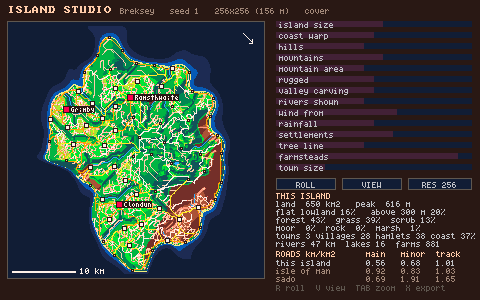
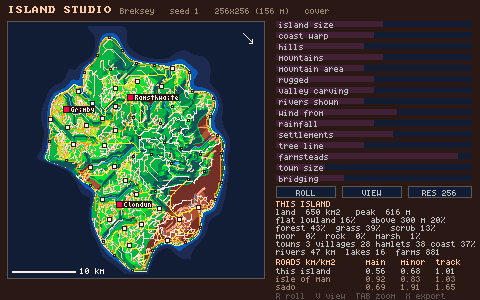
islandstudio: bridging slider (roads may bridge lakes and sea inlets)
Water costs len*(1.2+30(1-k)^2)*(1+DL/400) for links and the expressway (never the coast ring or
farm tracks); max span 150+1850k m. Each water stretch on a route must be a real crossing
(<= max span and <= 2.5x the water's width) or the route is redone without water. Spans become B1,
counted only where the route went through water and the smooth terrain is below sea level.
Default 0.35: 256 islands byte-identical; 1024 seed 3 gains one 80 m inlet bridge.
Slider start values overridable via DE_DEFINES (K_BRIDGE0, K_TOWN0) for sweeps.

Changed region(s): [[0.5625, 0.57, 1.0, 1.0]]

diff --git a/tools/carts/islandstudio.c b/tools/carts/islandstudio.c
@@ -10,7 +10,7 @@
   "description": {
     "summary": "Grow a 40 x 40 km island: coast, hills and mountains, water that drains and carves valleys, wind, rain and a rain shadow, cover, settlements, farms, and the roads between them.",
     "detail": "The island is a finite grid: 256 x 256 (156 m cells) while you play with the sliders, 512 or 1024 (39 m) for a final bake. Noise gives the shape: an island mask with a warped coast, layered rolling hills, and ridged mountains that only grow inside a mountain mask (slide it to zero for a low island). Then the whole map drains: a priority flood fills every pit so each cell has a downhill path to the sea, a flow count adds up how much land drains through each cell, and valleys are carved where the flow is large. Draining again gives the rivers and lakes. A prevailing wind brings rain that the mountains wring out, leaving a dry lee. Natural cover follows from height, slope, rain and water (forest, grassland, scrub, moor, rock, marsh, beach), and settlements claim the flattest, lowest, best-watered, most fertile land, spaced apart, with the biggest few becoming towns. Roads are routed across the terrain by A*, most important first, with a discount for reusing an existing road so routes merge into trunks; traffic sets the class (main road, secondary, lane), a ring road follows the coast where the land allows, an expressway joins the two biggest towns when they are far apart, scattered farmsteads add tracks and through-lanes, and forests and moors get dead-end tracks. Rivers are smooth lines and roads cross them on bridges. The panel compares the result to two real islands measured from OpenStreetMap. Design doc: docs/design/island-studio.md.",
-    "controls": "Drag the sliders. R or ROLL = new seed. V or VIEW cycles cover / terrain / slope / suitability / flow. Hover the map for height, cover, rain and suitability. Red squares are towns (named), white villages, dots hamlets; hover one for its name. Every island and place gets a name from a Norse, Gaelic or English flavour picked by the seed. The arrow shows the wind. The tree line slider goes from bare hills to wooded mountains. Town size sets how far towns and villages grow their street grids (only the roads re-route). TAB opens a full-screen zoom (drag to pan, wheel to zoom) with roads at their real widths. G or RES switches the grid between 256 (live), 512 and 1024 (a ~2.5 s bake, much finer roads). X exports the island (roads, cover, heights) to data/islandstudio-<seed>.json (roadview's vector format; measure with tools/road-density.js) plus the packed .rvb that backroads drives."
+    "controls": "Drag the sliders. R or ROLL = new seed. V or VIEW cycles cover / terrain / slope / suitability / flow. Hover the map for height, cover, rain and suitability. Red squares are towns (named), white villages, dots hamlets; hover one for its name. Every island and place gets a name from a Norse, Gaelic or English flavour picked by the seed. The arrow shows the wind. The tree line slider goes from bare hills to wooded mountains. Town size sets how far towns and villages grow their street grids (only the roads re-route). Bridging sets how readily roads bridge open water (lakes, sea inlets): 0 never, 1 crossings up to 2 km. TAB opens a full-screen zoom (drag to pan, wheel to zoom) with roads at their real widths. G or RES switches the grid between 256 (live), 512 and 1024 (a ~2.5 s bake, much finer roads). X exports the island (roads, cover, heights) to data/islandstudio-<seed>.json (roadview's vector format; measure with tools/road-density.js) plus the packed .rvb that backroads drives."
   }
 }
 de:meta */
@@ -55,6 +55,13 @@ static int N = 256;                          // grid cells per side: 256 live, 5
 #define PANEL_X  276
 
 // ── knobs (0..1 sliders) ───────────────────────────────────────────────────────
+// slider start values can be overridden at build time for sweeps: DE_DEFINES=K_BRIDGE0=1.0f node tools/play.js islandstudio ...
+#ifndef K_BRIDGE0
+#define K_BRIDGE0 0.35f
+#endif
+#ifndef K_TOWN0
+#define K_TOWN0 0.25f
+#endif
 static float k_size  = 0.55f;   // island radius
 static float k_coast = 0.50f;   // coast warp (bays, headlands)
 static float k_hills = 0.45f;   // rolling-hill height
@@ -67,7 +74,8 @@ static float k_wind  = 0.62f;   // prevailing wind, the direction it blows FROM 
 static float k_rain  = 0.50f;   // how wet the climate is overall
 static float k_vill  = 0.60f;   // settlement density (spacing 4.5 km .. 1.5 km)
 static float k_farm  = 0.93f;   // farmstead density (spacing ~1.2 km .. 450 m)
-static float k_town  = 0.25f;   // how far towns grow: town street radius 300 m .. 1.5 km (villages ~0.38 of it)
+static float k_town  = K_TOWN0;   // how far towns grow: town street radius 300 m .. 1.5 km (villages ~0.38 of it)
+static float k_bridge = K_BRIDGE0;  // appetite for bridging open water (lakes, inlets): 0 = never .. 1 = spans up to 2 km
 static float k_tree  = 0.45f;   // tree line: 0 = bare Scottish hills (~400 m), 1 = wooded to ~1300 m
 static int   seed = 1;
 static int   view;
@@ -230,6 +238,7 @@ static float river_thr(void) { return (40.0f + (1.0f - k_riv) * 900.0f) * AREA_K
 #define RIVER_CELLS (300.0f * AREA_K)  // drained cells that count as a real river (~7 km²)
 #define LAKE_DEPTH 3.0f                 // shallower filled pits are damp ground, not lakes
 static int is_lake(int i) { return H[i] > 0 && F[i] - H[i] > LAKE_DEPTH; }
+static int is_dry(int i) { return H[i] > 0 && !is_lake(i); }
 static int is_fresh(int i) { return H[i] > 0 && (A[i] >= RIVER_CELLS || is_lake(i)); }
 
 // ── 6: climate. March UPWIND from each cell; every metre the air has climbed since it left the
@@ -297,6 +306,7 @@ static void dist_from(float *D, int (*src)(int)) {
     }
 }
 static int is_sea(int i) { return H[i] <= 0; }
+static float DL[MAXN * MAXN];          // water cells: distance to dry land (m); bridges may span 2x this
 
 // ── 7: natural cover ─────────────────────────────────────────────────────────────
 static void cover(void) {
@@ -438,9 +448,21 @@ enum { RM_LINK, RM_RING, RM_EXPRESS, RM_TRACK };
 static unsigned char JN[MAXN * MAXN];   // road edges meeting at a cell (>= 3 = a junction)
 static int river_cell(int i) { return H[i] > 0 && A[i] >= RIVER_CELLS * 0.5f; }
 
+static int no_water;                              // set while re-routing a route whose bridge was too long
+static float max_span(void) { return 150.0f + k_bridge * 1850.0f; }   // longest bridge the slider allows (m)
 static float step_cost(int a, int b, int k, int mode) {
-    if (H[b] <= 0 || is_lake(b)) return -1;
     float len = k < 4 ? CELL : CELL * 1.41421f;
+    // OPEN WATER (sea inlets, lakes): bridged only as far as the bridging slider allows. A water cell
+    // more than half the longest allowed span from land is out of reach; each metre over water costs
+    // like many metres of road, so a bridge only wins against a long way round. Farm tracks never bridge.
+    if (!is_dry(b)) {
+        if (mode == RM_TRACK || mode == RM_RING || no_water || k_bridge < 0.02f) return -1;   // only links + the expressway bridge
+        float maxspan = max_span();
+        if (DL[b] > maxspan * 0.5f) return -1;
+        // dearer the further from shore: a bridge CROSSES water at its narrows; without this, full
+        // appetite made 3 km "bridges" running along a channel
+        return len * (1.2f + 30.0f * (1.0f - k_bridge) * (1.0f - k_bridge)) * (1.0f + DL[b] / 400.0f);
+    }
     float g = fabsf(H[b] - H[a]) / len;                        // grade ALONG the step: contours are cheap
     float m = mode == RM_EXPRESS
         ? 1 + (g / 0.035f) * (g / 0.035f) * 5 + (g > 0.07f ? (g - 0.07f) * 400 : 0)
@@ -464,7 +486,7 @@ static float step_cost(int a, int b, int k, int mode) {
         && river_cell(ay * N + bx) && river_cell(by * N + ax)) cross = 1;
     if (cross) {                                               // a bridge: cost grows with the river
         float span = clamp(sqrtf(fmaxf(A[b], A[ay * N + bx]) / AREA_K) / 40.0f, 0.4f, 3.0f);
-        extra = (mode == RM_EXPRESS ? 2.0f : 5.0f) * CELL * span;
+        extra = (mode == RM_EXPRESS ? 2.0f : 5.0f) * CELL * span * (1.35f - k_bridge);   // x1 at the default appetite
     }
     if (river_cell(a) && river_cell(b)) m *= 6;                // don't drive along the river bed
     if (mode != RM_EXPRESS) {
@@ -841,6 +863,29 @@ static void name_places(void) {
     }
 }
 static int cn_away = -1;            // when >=0: only accept hits away from this cell (a 2nd way out)
+// A* that keeps bridges honest: the per-cell distance-to-land gate can't stop a route running ALONG
+// the water (11 km "bridges" hugging a coast at full appetite). If the found route has a water stretch
+// longer than the slider's max span, it is routed again with no water at all.
+static float astar_b(int s, int t, int mode, int *out, int *nout, float budget) {
+    float c = astar(s, t, mode, out, nout, budget);
+    if (c < 0) return c;
+    // each water stretch must be a CROSSING: no longer than the slider's max span, and no longer than
+    // ~2.5x the water's width there (2 x its furthest point from shore). A road running ALONG a coast
+    // or a lake channel is many times longer than that (seen: 1.3 km in the shallows, an expressway
+    // hopping down a lake chain).
+    float run = 0, deep = 0; int bad = 0;
+    for (int i = 1; i <= *nout && !bad; i++) {
+        if (i == *nout || is_dry(out[i])) {
+            if (run > 0 && (run > max_span() || run > 2.5f * (2.0f * deep + CELL))) bad = 1;
+            run = 0; deep = 0; continue;
+        }
+        run += (out[i] % N != out[i - 1] % N && out[i] / N != out[i - 1] / N) ? CELL * 1.41421f : CELL;
+        if (DL[out[i]] > deep) deep = DL[out[i]];
+    }
+    if (!bad) return c;
+    no_water = 1; c = astar(s, t, mode, out, nout, budget); no_water = 0;
+    return c;
+}
 static float connect_to_network(int s, int *out, int *nout, float budget) {
     agen++; hp_n = 0;
     ag[s] = 0; astamp[s] = agen; af[s] = -1; hp_push(s, 0);
@@ -1072,7 +1117,7 @@ static void town_streets(void) {
             int bestq = -1; float bd = 1e9f;
             for (int p = 0; p < n; p++) if (ts_find(uf, p) == rq && rad[p] < bd) { bd = rad[p]; bestq = p; }
             int np2;
-            if (astar(cellof[bestq], c0, RM_LINK, pbuf, &np2, step * 4) >= 0) mark(pbuf, np2, RC_LANE, 0, 0, 0);
+            if (astar_b(cellof[bestq], c0, RM_LINK, pbuf, &np2, step * 4) >= 0) mark(pbuf, np2, RC_LANE, 0, 0, 0);
             uf[rq] = rr0 >= 0 ? rr0 : rq;
         }
     }
@@ -1229,6 +1274,48 @@ static void build_bridges(void) {
                 }
             }
         }
+}
+
+// WATER BRIDGES: where a road runs over open water (a lake or a sea inlet the bridging slider let it
+// cross), the whole run becomes one bridge span (+20 m abutments each side), tagged B1 like a river
+// bridge; any river bridge inside that run is folded into it.
+static int st_waterbr; static float st_waterbr_max;
+static float H_bilinear(float x, float y);
+// open water under a road point: a lake cell, or the SMOOTH terrain below sea level (cell lookup on
+// 156 m cells called a coast road skimming the shoreline a 240 m bridge)
+static int water_at(float x, float y) {
+    int c = (int)(y / CELL) * N + (int)(x / CELL);
+    if (c < 0 || c >= N * N) return 0;
+    return is_lake(c) || H_bilinear(x, y) < -1.0f;
+}
+static void build_water_bridges(void) {
+    st_waterbr = 0; st_waterbr_max = 0;
+    for (int p = 0; p < npl; p++) {
+        int s0 = pl[p].start, e0 = s0 + pl[p].n - 1;
+        for (int i = s0; i <= e0; i++) {
+            if (!water_at(plx[i], ply[i])) continue;
+            int j = i, routed = 0; float L = 0;
+            for (int q = i;; q++) {                           // did the ROUTE go through water here? (else a
+                int c = (int)(ply[q] / CELL) * N + (int)(plx[q] / CELL);   // smoothed line just clips a shore)
+                if (c >= 0 && c < N * N && !is_dry(c)) for (int k = 0; k < 8; k++) if (ER[c][k]) routed = 1;
+                if (q >= e0 || !water_at(plx[q + 1], ply[q + 1])) break;
+                L += hypotf(plx[q + 1] - plx[q], ply[q + 1] - ply[q]); j = q + 1;
+            }
+            if (routed && L > 30.0f) {                                  // shorter = a smoothed road clipping a cell corner of the shore
+                float half = L * 0.5f, acc = 0; int mid = i;
+                while (mid < j && acc + hypotf(plx[mid + 1] - plx[mid], ply[mid + 1] - ply[mid]) < half) { acc += hypotf(plx[mid + 1] - plx[mid], ply[mid + 1] - ply[mid]); mid++; }
+                if (mid == s0) mid++;
+                for (int b = 0; b < nbr; b++)                     // fold river bridges inside the run into it
+                    if (br[b].p == p && br[b].i >= i && br[b].i <= j + 1) { br[b] = br[--nbr]; b--; }
+                if (nbr >= MAXBR) { st_overflow++; break; }
+                float dx = plx[mid] - plx[mid - 1], dy = ply[mid] - ply[mid - 1], l = sqrtf(dx * dx + dy * dy) + 1e-6f;
+                br[nbr].x = plx[mid]; br[nbr].y = ply[mid]; br[nbr].dx = dx / l; br[nbr].dy = dy / l;
+                br[nbr].len = L + 40.0f; br[nbr].cls = pl[p].cls; br[nbr].p = p; br[nbr].i = mid; nbr++;
+                st_waterbr++; if (L > st_waterbr_max) st_waterbr_max = L;
+            }
+            i = j;
+        }
+    }
 }
 
 // FLYOVERS: every cell where the expressway and another road share a cell (and it isn't a town the
@@ -1628,7 +1715,7 @@ static void build_roads(void) {
         int floor = (ra == ST_TOWN && rb == ST_TOWN) ? RC_MAIN : (ra >= ST_VILLAGE || rb >= ST_VILLAGE) ? RC_SEC : RC_LANE;
         st_link_try[floor - RC_LANE]++;
         float d = set_dist(a, b);
-        float cst = astar(set[a].y * N + set[a].x, set[b].y * N + set[b].x, RM_LINK, pbuf, &n, d * 3.5f + 2500);
+        float cst = astar_b(set[a].y * N + set[a].x, set[b].y * N + set[b].x, RM_LINK, pbuf, &n, d * 3.5f + 2500);
         if (cst < 0) continue;
         st_link_ok[floor - RC_LANE]++;
         mark(pbuf, n, floor, link_w[i], 0, 0);
@@ -1656,7 +1743,7 @@ static void build_roads(void) {
     }
     if (t1 >= 0 && t2 >= 0 && set_dist(t1, t2) > 10000) {
         float d = set_dist(t1, t2);
-        if (astar(set[t1].y * N + set[t1].x, set[t2].y * N + set[t2].x, RM_EXPRESS, pbuf, &n, d * 3.0f) >= 0) {
+        if (astar_b(set[t1].y * N + set[t1].x, set[t2].y * N + set[t2].x, RM_EXPRESS, pbuf, &n, d * 3.0f) >= 0) {
             mark(pbuf, n, RC_EXPRESS, 0, 0, 0); st_express = 1;
         }
     }
@@ -1690,6 +1777,7 @@ static void build_roads(void) {
     build_polys();
     build_rivers();
     build_bridges();
+    build_water_bridges();
     build_flyovers();
     build_interchanges();
     roads_dirty = 0;
@@ -1770,6 +1858,7 @@ static void terrain_pass(void) {
     climate();
     dist_from(DW, is_fresh);
     dist_from(DS, is_sea);
+    dist_from(DL, is_dry);
     cover();
     for (int k = 0; k < NCV; k++) st_cov[k] = 0;
     for (int i = 0; i < N * N; i++) if (H[i] > 0) st_cov[CV[i]] += 1;
@@ -1811,7 +1900,7 @@ void update(void) {
     watch("seed", "%d", seed); watch("nset", "%d", nset); watch("coastal", "%d", st_coastal);
     watch("moor", "%d", (int)st_cov[CV_MOOR]); watch("forest", "%d", (int)st_cov[CV_FOREST]);
     watch("land", "%d", (int)st_land); watch("npl", "%d", npl); watch("express", "%d", st_express);
-    watch("ringgaps", "%d", st_ringgaps); watch("bridges", "%d", nbr); watch("lakes", "%d", st_lakes); watch("N", "%d", N); watch("diagx", "%d", st_diagx); watch("cuts", "%d", st_cuts); watch("consol", "%d", st_consol); watch("streets", "%d", st_streets); watch("flyovers", "%d", st_flyovers); watch("interchanges", "%d", st_interchanges); watch("rebuild_ms", "%.0f", st_rebuild_ms); watch("overflow", "%d", st_overflow); watch("links", "lane %d/%d sec %d/%d main %d/%d", st_link_ok[0], st_link_try[0], st_link_ok[1], st_link_try[1], st_link_ok[2], st_link_try[2]); { int bb = -1; for (int b = 0; b < nbr; b++) if (bb < 0 || br[b].len > br[bb].len) bb = b;
+    watch("ringgaps", "%d", st_ringgaps); watch("bridges", "%d", nbr); watch("lakes", "%d", st_lakes); watch("N", "%d", N); watch("diagx", "%d", st_diagx); watch("cuts", "%d", st_cuts); watch("consol", "%d", st_consol); watch("streets", "%d", st_streets); watch("waterbr", "%d", st_waterbr); watch("waterbr_max", "%.0f", st_waterbr_max); watch("flyovers", "%d", st_flyovers); watch("interchanges", "%d", st_interchanges); watch("rebuild_ms", "%.0f", st_rebuild_ms); watch("overflow", "%d", st_overflow); watch("links", "lane %d/%d sec %d/%d main %d/%d", st_link_ok[0], st_link_try[0], st_link_ok[1], st_link_try[1], st_link_ok[2], st_link_try[2]); { int bb = -1; for (int b = 0; b < nbr; b++) if (bb < 0 || br[b].len > br[bb].len) bb = b;
       if (bb >= 0) { watch("bigbridge_x", "%.0f", br[bb].x); watch("bigbridge_y", "%.0f", br[bb].y); watch("bigbridge_len", "%.0f", br[bb].len); } } watch("rivers", "%d", nrv);
     watch("forest_tracks", "%d", nforest); watch("upland_tracks", "%d", nupland); watch("roads_ms", "%.0f", st_roads_ms);
     for (int k = RC_TRACK; k < NRC; k++) watch(RCN[k], "%.0f", st_road[k]);
@@ -2078,19 +2167,19 @@ void draw(void) {
 
     int px = PANEL_X, w = 196;
     ui_begin();
-    static const char *L[14] = { "island size", "coast warp", "hills", "mountains",
+    static const char *L[15] = { "island size", "coast warp", "hills", "mountains",
                                  "mountain area", "rugged", "valley carving", "rivers shown",
-                                 "wind from", "rainfall", "settlements", "tree line", "farmsteads", "town size" };
-    float *P[14] = { &k_size, &k_coast, &k_hills, &k_mtn, &k_mreg, &k_rug, &k_ero, &k_riv,
-                     &k_wind, &k_rain, &k_vill, &k_tree, &k_farm, &k_town };
-    for (int k = 0; k < 14; k++)
-        if (ui_slider(P[k], px, 20 + k * 11, w, L[k])) { if (P[k] == &k_town) roads_dirty = 1; else dirty = 1; }
-    if (ui_button(px, 178, 60, 12, "ROLL")) { seed++; dirty = 1; }
-    if (ui_button(px + 66, 178, 60, 12, "VIEW")) { view = (view + 1) % NVIEW; recolour(); }
-    if (ui_button(px + 132, 178, 64, 12, str("RES %d", N))) { N = N == 256 ? 512 : N == 512 ? 1024 : 256; dirty = 1; }
+                                 "wind from", "rainfall", "settlements", "tree line", "farmsteads", "town size", "bridging" };
+    float *P[15] = { &k_size, &k_coast, &k_hills, &k_mtn, &k_mreg, &k_rug, &k_ero, &k_riv,
+                     &k_wind, &k_rain, &k_vill, &k_tree, &k_farm, &k_town, &k_bridge };
+    for (int k = 0; k < 15; k++)
+        if (ui_slider(P[k], px, 20 + k * 11, w, L[k])) { if (P[k] == &k_town || P[k] == &k_bridge) roads_dirty = 1; else dirty = 1; }
+    if (ui_button(px, 186, 60, 12, "ROLL")) { seed++; dirty = 1; }
+    if (ui_button(px + 66, 186, 60, 12, "VIEW")) { view = (view + 1) % NVIEW; recolour(); }
+    if (ui_button(px + 132, 186, 64, 12, str("RES %d", N))) { N = N == 256 ? 512 : N == 512 ? 1024 : 256; dirty = 1; }
     ui_end();
 
-    int y = 193;
+    int y = 201;
     print("THIS ISLAND", px, y, CLR_LIGHT_PEACH); y += 8;
     print(str("land %4d km2   peak %4d m", (int)st_land, (int)st_peak), px, y, CLR_LIGHT_GREY); y += 8;
     print(str("flat lowland %2d%%   above 300 m %2d%%", (int)st_flat, (int)st_high), px, y, CLR_LIGHT_GREY); y += 8;

diff --git a/docs/design/island-studio.md b/docs/design/island-studio.md
@@ -439,3 +439,29 @@ greedy placement cascaded differently.
 1024 road shape unchanged against the Isle of Man (`sndi-check --samples 300`: seed 1 dead 32 %,
 X 10.9 %, circuity 1.52; seed 3 34 %, 11.3 %, 1.49). Seed 1's minor density goes 0.80 → 0.74: the
 1024 grid used to invent ~10 extra places the 256 plan doesn't have.
+
+## Bridging open water (2026-11-20)
+
+Roads used to treat sea and lakes as walls: only rivers got bridges, so a town and a village either
+side of an inlet were joined the long way round or not at all (the maker's screenshot). The
+**bridging** slider (default 0.35) sets the appetite:
+
+- **Routing** (`step_cost`): a water cell costs `len × (1.2 + 30·(1−k)²) × (1 + DL/400)`, where DL
+  is its distance to dry land (a new distance field). That's dear at the default, close to road cost
+  at full, and always dearer away from shore. Water beyond half the max span from land
+  (`150 + 1850·k` m, so 0.8 km at default, 2 km at full) is unreachable. Only links between places
+  and the expressway may bridge; the coast ring and farm tracks never do. River-bridge cost scales
+  with the slider too (×1 at default).
+- **Crossings only** (`astar_b`): each water stretch on a found route must be no longer than the max
+  span **and** no longer than 2.5 × the water's width there (2 × its furthest point from shore).
+  Otherwise the route is re-routed with no water. Without this, full appetite gave 11 km "bridges"
+  running along a coast in the shallows and an expressway hopping down a lake chain.
+- **Spans** (`build_water_bridges`): a road stretch over water becomes one `B1` span (+20 m each
+  side), folding in any river bridge inside it. It counts as water only if the *route* went through
+  water cells and the smooth terrain is below −1 m (or a lake cell). Otherwise a coast road skimming
+  the shoreline, or a smoothed track clipping a lake corner, read as a 240 m bridge.
+
+Sweep at 256 over seeds 1/3/6/9/10 (water bridges, longest): 0 → none; 0.35 → none (byte-identical
+to before); 0.7 → seed 3 one of 308 m; 1.0 → seed 3 four (≤ 308 m, lake crossings to a village),
+seed 9 three. At 1024 the default finds one 80 m inlet crossing on seed 3 that the 156 m grid can't
+see. Sweeps use `DE_DEFINES=K_BRIDGE0=<v>f` (also `K_TOWN0`) instead of copying the cart.
